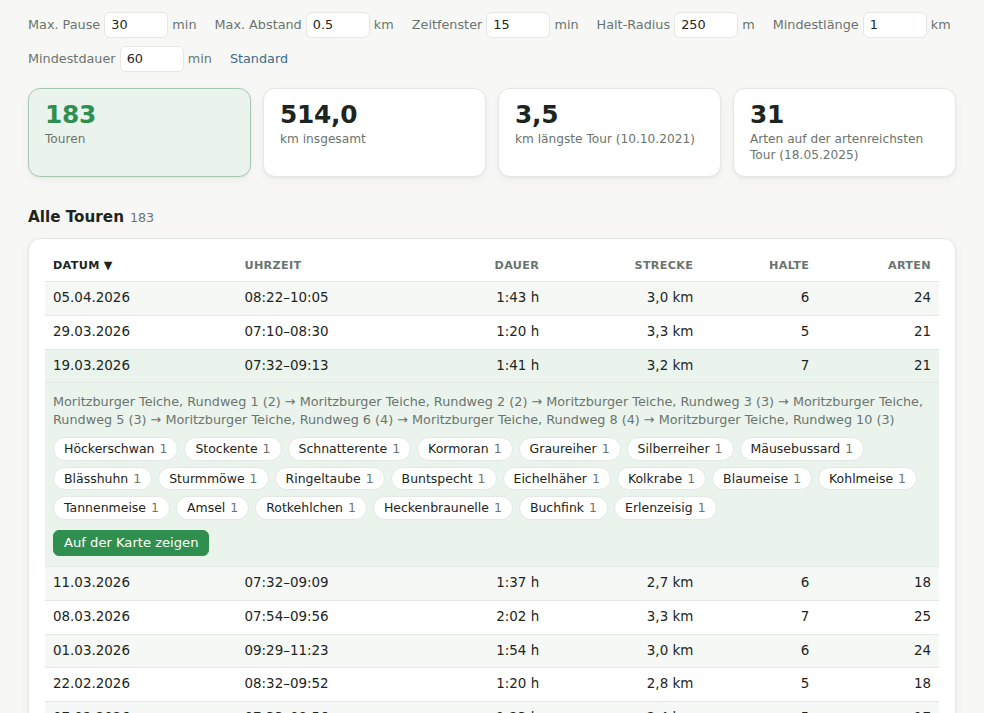
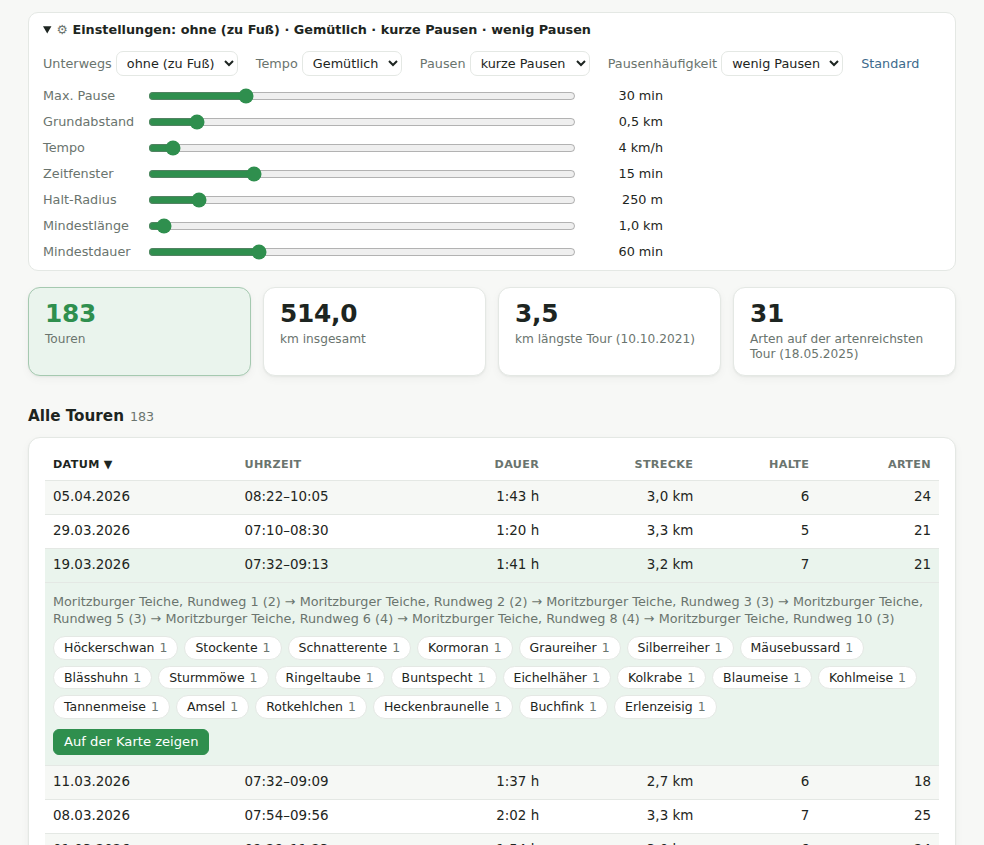
Feature: One tours settings menu with choices and sliders
The tour settings are now a single "Einstellungen" menu: four choices
(getting about: on foot or by bike; pace: Schnecke to Jaguar; short or
long pauses; few or frequent pauses) fill in all values, and each value
has a slider that redraws the tours live. The folded menu names the
choices and says "angepasst" once a slider moved.

The allowed distance between two records now grows with the time between
them: base distance plus what the set speed covers meanwhile.

diff --git a/src/tours.js b/src/tours.js
@@ -1,19 +1,40 @@
 /* ---------- tours ---------- */
 // Tours are reconstructed from the records themselves: on one day, records with a time that follow each
-// other within `gap` minutes and `step` km belong to the same walk or ride. Its stops are the mean
-// positions of `win`-minute time windows, merged where they lie within `stop` metres (see tourStops()). A chain with a single stop is a stay, not a tour, and tours shorter than
-// `minKm` or `minDur` minutes are left out (an hour is also the span a Beobachtungsliste covers a quadrant
-// in). The viewer can change them all in the tab; they are kept in localStorage.
-const TOUR_DEFAULTS = { gap: 30, step: 0.5, win: 15, stop: 250, minKm: 1, minDur: 60 };
-// [key, min, max, step of the input]
-/** @type {["gap"|"step"|"win"|"stop"|"minKm"|"minDur", number, number, number][]} */
-const TOUR_LIMITS = [["gap", 1, 240, 1], ["step", 0.1, 50, 0.1], ["win", 1, 120, 1], ["stop", 10, 2000, 10], ["minKm", 0, 50, 0.1], ["minDur", 0, 720, 5]];
+// other within `gap` minutes belong to the same walk or ride if they are no farther apart than `step` km
+// plus what `speed` km/h covers in the time between them. Its stops are the mean positions of `win`-minute
+// time windows, merged where they lie within `stop` metres (see tourStops()). A chain with a single stop is
+// a stay, not a tour, and tours shorter than `minKm` or `minDur` minutes are left out (an hour is also the
+// span a Beobachtungsliste covers a quadrant in).
+// The viewer describes the outing in four choices (TOUR_CHOICES: getting about, pace, length and number
+// of pauses), which fill in all numbers; each number can then be fine-tuned. Everything is kept in localStorage.
+/** @typedef {{mode: string, pace: string, pauseLen: string, pauseFreq: string, gap: number, step: number, speed: number, win: number, stop: number, minKm: number, minDur: number}} TourCfg */
+const TOUR_MODES = {
+  foot: { speed: 4, step: 0.5, stop: 250, win: 15, gap: 30, minKm: 1, minDur: 60 },
+  bike: { speed: 12, step: 1, stop: 400, win: 5, gap: 30, minKm: 5, minDur: 60 },
+};
+const TOUR_PACES = { snail: 0.5, easy: 1, brisk: 1.5, jaguar: 2.5 };  // factor on the mode's speed
+const TOUR_PAUSE_LEN = { short: 30, long: 60 };  // max. pause in minutes: long breaks, e.g. a picnic or a long watch without a record
+const TOUR_PAUSE_FREQ = { few: 1, often: 0.7 };  // factor on the speed: stopping often lowers the average
+/** @type {Object<string, Object<string, any>>} the choices of the settings menu, first one each is the default */
+const TOUR_CHOICES = { mode: TOUR_MODES, pace: TOUR_PACES, pauseLen: TOUR_PAUSE_LEN, pauseFreq: TOUR_PAUSE_FREQ };
+/** @param {{mode: string, pace: string, pauseLen: string, pauseFreq: string}} sel @returns {TourCfg} */
+function tourPreset({ mode, pace, pauseLen, pauseFreq }) {
+  const m = TOUR_MODES[mode];
+  return { mode, pace, pauseLen, pauseFreq, ...m, gap: TOUR_PAUSE_LEN[pauseLen],
+    speed: Math.round(m.speed * TOUR_PACES[pace] * TOUR_PAUSE_FREQ[pauseFreq] * 10) / 10 };
+}
+const TOUR_DEFAULTS = tourPreset({ mode: "foot", pace: "easy", pauseLen: "short", pauseFreq: "few" });
+// [key, min, max, step of its slider]
+/** @type {["gap"|"step"|"speed"|"win"|"stop"|"minKm"|"minDur", number, number, number][]} */
+const TOUR_LIMITS = [["gap", 5, 120, 5], ["step", 0, 5, 0.1], ["speed", 0, 100, 0.5], ["win", 1, 60, 1], ["stop", 50, 2000, 50], ["minKm", 0, 50, 0.5], ["minDur", 0, 240, 5]];
 const TOURS_SHOWN = 30;
-/** @returns {typeof TOUR_DEFAULTS} */
+/** @returns {TourCfg} */
 function loadTourCfg() {
   const cfg = { ...TOUR_DEFAULTS };
   try {
     const saved = JSON.parse(localStorage.getItem("lifelist-tour-settings") || "{}");
+    const sel = Object.fromEntries(Object.entries(TOUR_CHOICES).map(([id, opts]) => [id, saved[id] in opts ? saved[id] : TOUR_DEFAULTS[id]]));
+    Object.assign(cfg, tourPreset(/** @type {any} */ (sel)));
     for (const [k, min, max] of TOUR_LIMITS) if (typeof saved[k] === "number" && saved[k] >= min && saved[k] <= max) cfg[k] = saved[k];
   } catch (e) { /* no or broken settings: defaults */ }
   return cfg;
@@ -23,6 +44,8 @@ S.tourCfg = loadTourCfg();
 function saveTourCfg() {
   try { localStorage.setItem("lifelist-tour-settings", JSON.stringify(S.tourCfg)); } catch (e) { /* private mode may refuse */ }
 }
+// true when a number was changed by hand after making the choices
+const tourCfgTuned = () => { const p = tourPreset(S.tourCfg); return TOUR_LIMITS.some(([k]) => p[k] !== S.tourCfg[k]); };
 /**
  * @typedef {Object} TourStop
  * @property {number} lat - mean latitude of its records
@@ -98,8 +121,9 @@ function findTours(list) {
     byDay.get(o.d).push(o);
   }
   const tours = [];
-  const { gap, step, minKm, minDur } = S.tourCfg;
-  const close = (a, b) => b.tm - a.tm <= gap && distM(obsPos(a), obsPos(b)) <= step * 1000;
+  const { gap, step, speed, minKm, minDur } = S.tourCfg;
+  // the longer the time between two records, the farther the birder may have got meanwhile
+  const close = (a, b) => b.tm - a.tm <= gap && distM(obsPos(a), obsPos(b)) <= step * 1000 + speed * 1000 / 60 * (b.tm - a.tm);
   for (const [d, day] of byDay) {
     day.sort((a, b) => a.tm - b.tm);
     let chain = [day[0]];
@@ -126,12 +150,25 @@ function visibleTours() {
 }
 const fmtKm = km => km.toLocaleString(S.lang === "en" ? "en-GB" : "de-DE", { minimumFractionDigits: 1, maximumFractionDigits: 1 });
 const fmtDuration = min => `${Math.floor(min / 60)}:${pad(min % 60)} h`;
-// the four limits as inputs; a change re-renders the tab (see the "change" handler in app.js)
+// one "Einstellungen" menu: the way of getting about and the pace, and a slider for every number
+const TOUR_UNITS = { gap: "min", step: "km", speed: "km/h", win: "min", stop: "m", minKm: "km", minDur: "min" };
+const tourCfgValue = k => `${k === "step" || k === "minKm" ? fmtKm(S.tourCfg[k]) : fmtN(S.tourCfg[k])} ${TOUR_UNITS[k]}`;
+const tourCfgSummary = () => `${t("tourCfg")}: ${Object.keys(TOUR_CHOICES).map(id => t(`tour_${id}_${S.tourCfg[id]}`)).join(" · ")}${tourCfgTuned() ? ` (${t("tourCfgTuned")})` : ""}`;
 function tourSettingsHtml() {
-  const unit = { gap: "min", step: "km", win: "min", stop: "m", minKm: "km", minDur: "min" };
-  return `<div class="tour-cfg">${TOUR_LIMITS.map(([k, min, max, step]) =>
-    `<label>${t("tourCfg_" + k)} <input type="number" data-tour-cfg="${k}" min="${min}" max="${max}" step="${step}" value="${S.tourCfg[k]}"> ${unit[k]}</label>`).join("")}
-    <button class="lnk" type="button" data-tour-reset>${t("tourCfgReset")}</button></div>`;
+  const pick = (id, keys) => `<select data-tour-preset="${id}" aria-label="${esc(t("tourCfg_" + id))}">${keys.map(k =>
+    `<option value="${k}"${k === S.tourCfg[id] ? " selected" : ""}>${t(`tour_${id}_${k}`)}</option>`).join("")}</select>`;
+  return `<details class="tour-settings"${S.tourSetOpen ? " open" : ""}><summary id="tour-cfg-sum">${esc(tourCfgSummary())}</summary>
+    <div class="tour-presets">${Object.entries(TOUR_CHOICES).map(([id, opts]) => `<label>${t("tourCfg_" + id)} ${pick(id, Object.keys(opts))}</label>`).join("")}
+      <button class="lnk" type="button" data-tour-reset>${t("tourCfgReset")}</button></div>
+    <div class="tour-sliders">${TOUR_LIMITS.map(([k, min, max, step]) => `<label for="tour-cfg-${k}">${t("tourCfg_" + k)}</label>
+      <input type="range" id="tour-cfg-${k}" data-tour-cfg="${k}" min="${min}" max="${max}" step="${step}" value="${S.tourCfg[k]}">
+      <output id="tour-cfg-${k}-v" for="tour-cfg-${k}">${tourCfgValue(k)}</output>`).join("")}</div></details>`;
+}
+// after a preset or reset: move every slider and its value to the new settings
+function syncTourSettings() {
+  for (const [k] of TOUR_LIMITS) { $(`tour-cfg-${k}`).value = S.tourCfg[k]; $(`tour-cfg-${k}-v`).textContent = tourCfgValue(k); }
+  for (const id of Object.keys(TOUR_CHOICES)) $$(`[data-tour-preset="${id}"]`).value = S.tourCfg[id];
+  $("tour-cfg-sum").textContent = tourCfgSummary();
 }
 // sortable columns, like the life list: a click sorts, a second click turns the order round
 const TOUR_SORT = {
@@ -154,11 +191,14 @@ function tourTh(k, label, cls = "") {
   const s = S.tourSort;
   return `<th class="sortable ${cls}${s.k === k ? " sorted" : ""}" data-tour-sort="${k}">${label}${s.k === k ? (s.d > 0 ? " ▲" : " ▼") : ""}</th>`;
 }
+// the whole tab: help, settings menu and the results; the sliders only redraw the results (renderTourOut)
 function renderTours() {
+  $("tab-tours").innerHTML = infoText(t("toursHelp")) + tourSettingsHtml() + `<div id="tour-out"></div>`;
+  renderTourOut();
+}
+function renderTourOut() {
   const tours = visibleTours();
-  const { gap, step, win, stop, minKm, minDur } = S.tourCfg;
-  const help = infoText(t("toursHelp", gap, fmtKm(step), stop, fmtKm(minKm), minDur, win)) + tourSettingsHtml();
-  if (!tours.length) { $("tab-tours").innerHTML = help + `<p class="empty">${t("toursNone")}</p>`; updateToc(); return; }
+  if (!tours.length) { $("tour-out").innerHTML = `<p class="empty">${t("toursNone")}</p>`; updateToc(); return; }
   const stats = speciesStats(baseObs());
   const isLifer = tr => s => tr.obs.includes(stats.get(s)?.first);
   const km = tours.reduce((a, tr) => a + tr.km, 0);
@@ -179,8 +219,7 @@ function renderTours() {
     }
     return h;
   }).join("");
-  $("tab-tours").innerHTML = `
-    ${help}
+  $("tour-out").innerHTML = `
     <div class="kpis k4">
       <div class="kpi main"><b>${fmtN(tours.length)}</b><span>${t("toursKCount")}</span></div>
       <div class="kpi"><b>${fmtKm(km)}</b><span>${t("toursKKm")}</span></div>

diff --git a/src/i18n.js b/src/i18n.js
@@ -7,11 +7,16 @@ de: {
   pdf: "PDF erstellen", printed: "Stand: {0}", infoToggle: "Erläuterung",
   subtitle: "Ornitho.de, Exportdatei {0}, {1} Beobachtungen",
   tabOverview: "Übersicht", tabList: "Lebensliste", tabRegions: "Regionen", tabTargets: "Ziele", tabActivity: "Tagesaktivität", tabTours: "Touren", tabMap: "Karte",
-  toursHelp: "Touren werden aus deinen Meldungen rekonstruiert: Meldungen mit Uhrzeit, die am selben Tag höchstens {0} Minuten und {1} km auseinanderliegen, gehören zu einer Tour, zum Beispiel einem Spaziergang oder einer Radtour. Weil die Koordinaten einer Meldung meist zeigen, wo der Vogel war, und nicht, wo du standest, schätzt die Seite deinen Weg: Die Meldungen werden in Zeitfenster von {5} Minuten geteilt, jedes liegt im Mittelpunkt seiner Meldungen, und benachbarte Fenster, die höchstens {2} m auseinanderliegen, bilden einen Halt. Eine Tour hat mindestens zwei Halte; kürzere als {3} km oder {4} Minuten werden nicht gezeigt. Alle Werte lassen sich unten ändern; dein Browser merkt sie sich. Die Strecke ist die Luftlinie von Halt zu Halt. Wo der Export den GPS-Standort deines Handys beim Melden hat, zählt nur dieser; sonst genau gesetzte Punkte, sonst der ornitho-Ort.",
+  toursHelp: "Touren werden aus deinen Meldungen mit Uhrzeit rekonstruiert. Zwei Meldungen am selben Tag gehören zur selben Tour, wenn höchstens die Max. Pause zwischen ihnen liegt und sie nicht weiter auseinander sind als der Grundabstand plus die Strecke, die du im eingestellten Tempo in der Zeit dazwischen schaffst. Weil die Koordinaten einer Meldung oft zeigen, wo der Vogel war, schätzt die Seite deinen Weg: Die Meldungen werden in Zeitfenster geteilt, jedes liegt im Mittelpunkt seiner Meldungen (mit GPS-Standort des Handys nur dieser), und benachbarte Fenster innerhalb des Halt-Radius bilden einen Halt. Touren unter Mindestlänge oder Mindestdauer werden nicht gezeigt. Unter „Einstellungen“ wählst du, wie und wie schnell du unterwegs warst und wie lange und wie oft du Pause machst, und kannst jeden Wert mit einem Schieberegler anpassen; dein Browser merkt sich alles.",
   toursNone: "Keine Touren gefunden.", toursTitle: "Alle Touren", toursKCount: "Touren", toursKKm: "km insgesamt",
   toursKLongest: "km längste Tour ({0})", toursKRichest: "Arten auf der artenreichsten Tour ({0})",
   colDate: "Datum", colTime: "Uhrzeit", colDuration: "Dauer", colDistance: "Strecke", colPlaces: "Halte",
-  tourCfg_gap: "Max. Pause", tourCfg_step: "Max. Abstand", tourCfg_win: "Zeitfenster", tourCfg_stop: "Halt-Radius", tourCfg_minKm: "Mindestlänge", tourCfg_minDur: "Mindestdauer", tourCfgReset: "Standard",
+  tourCfg: "Einstellungen", tourCfg_mode: "Unterwegs", tourCfg_pace: "Tempo", tourCfgTuned: "angepasst",
+  tour_mode_foot: "ohne (zu Fuß)", tour_mode_bike: "Fahrrad",
+  tour_pace_snail: "Schnecke", tour_pace_easy: "Gemütlich", tour_pace_brisk: "Zügig", tour_pace_jaguar: "Jaguar",
+  tourCfg_pauseLen: "Pausen", tour_pauseLen_short: "kurze Pausen", tour_pauseLen_long: "lange Pausen",
+  tourCfg_pauseFreq: "Pausenhäufigkeit", tour_pauseFreq_few: "wenig Pausen", tour_pauseFreq_often: "oft Pausen",
+  tourCfg_speed: "Tempo", tourCfg_gap: "Max. Pause", tourCfg_step: "Grundabstand", tourCfg_win: "Zeitfenster", tourCfg_stop: "Halt-Radius", tourCfg_minKm: "Mindestlänge", tourCfg_minDur: "Mindestdauer", tourCfgReset: "Standard",
   tourShowMap: "Auf der Karte zeigen", tourOnMap: "Tour am {0}: {1} Halte, {2} km.", tourHide: "Tour ausblenden",
   actHelp: "Zu welcher Uhrzeit du Beobachtungen meldest. Berücksichtigt sind {0} von {1} Meldungen, denn manche Meldungen (vor allem über die Weboberfläche) haben keine Uhrzeit.",
   actMObs: "Beobachtungen", actMSpecies: "Arten", actMDays: "Beobachtungstage",
@@ -121,11 +126,16 @@ en: {
   pdf: "Create PDF", printed: "As of: {0}", infoToggle: "About this",
   subtitle: "Ornitho.de, export file {0}, {1} observations",
   tabOverview: "Overview", tabList: "Life List", tabRegions: "Regions", tabTargets: "Targets", tabActivity: "Daily Activity", tabTours: "Tours", tabMap: "Map",
-  toursHelp: "Tours are reconstructed from your records: records with a time on the same day that are at most {0} minutes and {1} km apart belong to one tour, such as a walk or a bike ride. As a record's coordinates mostly show where the bird was rather than where you stood, the page estimates your way: the records are cut into time windows of {5} minutes, each placed at the middle of its records, and neighbouring windows at most {2} m apart make one stop. A tour has at least two stops; tours shorter than {3} km or {4} minutes are not shown. You can change all values below; your browser remembers them. The distance is the straight line from stop to stop. Where the export has your phone's GPS position when reporting, only that counts; otherwise points set by hand, otherwise the ornitho.de place.",
+  toursHelp: "Tours are reconstructed from your records with a time. Two records on the same day belong to one tour if at most the max. pause lies between them and they are no farther apart than the base distance plus what you cover at the set speed in the time between them. As a record's coordinates often show where the bird was, the page estimates your way: the records are cut into time windows, each placed at the middle of its records (only your phone's GPS position where it has one), and neighbouring windows within the stop radius make one stop. Tours below the minimum length or duration are not shown. Under \"Settings\" you choose how and how fast you got about and how long and how often you paused, and can adjust each value with a slider; your browser remembers everything.",
   toursNone: "No tours found.", toursTitle: "All tours", toursKCount: "Tours", toursKKm: "km in total",
   toursKLongest: "km longest tour ({0})", toursKRichest: "species on the richest tour ({0})",
   colDate: "Date", colTime: "Time", colDuration: "Duration", colDistance: "Distance", colPlaces: "Stops",
-  tourCfg_gap: "Max. pause", tourCfg_step: "Max. distance", tourCfg_win: "Time window", tourCfg_stop: "Stop radius", tourCfg_minKm: "Minimum length", tourCfg_minDur: "Minimum duration", tourCfgReset: "Defaults",
+  tourCfg: "Settings", tourCfg_mode: "Getting about", tourCfg_pace: "Pace", tourCfgTuned: "adjusted",
+  tour_mode_foot: "none (on foot)", tour_mode_bike: "Bicycle",
+  tour_pace_snail: "Snail", tour_pace_easy: "Easy", tour_pace_brisk: "Brisk", tour_pace_jaguar: "Jaguar",
+  tourCfg_pauseLen: "Pauses", tour_pauseLen_short: "short pauses", tour_pauseLen_long: "long pauses",
+  tourCfg_pauseFreq: "Pause frequency", tour_pauseFreq_few: "few pauses", tour_pauseFreq_often: "frequent pauses",
+  tourCfg_speed: "Speed", tourCfg_gap: "Max. pause", tourCfg_step: "Base distance", tourCfg_win: "Time window", tourCfg_stop: "Stop radius", tourCfg_minKm: "Minimum length", tourCfg_minDur: "Minimum duration", tourCfgReset: "Defaults",
   tourShowMap: "Show on the map", tourOnMap: "Tour on {0}: {1} stops, {2} km.", tourHide: "Hide tour",
   actHelp: "Time of day you log sightings, covering {0} of {1} records. Some entries, especially via the web, carry no time.",
   actMObs: "Observations", actMSpecies: "Species", actMDays: "Observation days",

diff --git a/src/app.js b/src/app.js
@@ -228,15 +228,35 @@ function init() {
     renderActive();
   });
   $("m-metric").addEventListener("change", e => { S.metric = e.target.value; renderMap(); });
-  $("tab-tours").addEventListener("change", e => {
+  $("tab-tours").addEventListener("toggle", e => {
+    if (e.target.matches?.("details.tour-settings")) S.tourSetOpen = e.target.open;
+  }, true);
+  // sliders take effect while they move; the results redraw at most once per frame
+  let tourRAF = 0;
+  const redrawTours = () => {
+    S.tourOpen = new Set(); S.tourRoute = null;
+    cancelAnimationFrame(tourRAF);
+    tourRAF = requestAnimationFrame(renderTourOut);
+  };
+  $("tab-tours").addEventListener("input", e => {
     const k = e.target.dataset?.tourCfg;
     if (!k) return;
-    const [, min, max] = TOUR_LIMITS.find(l => l[0] === k);
-    const v = parseFloat(String(e.target.value).replace(",", "."));
-    if (Number.isFinite(v)) { S.tourCfg[k] = Math.min(max, Math.max(min, v)); saveTourCfg(); }
-    S.tourOpen = new Set(); S.tourRoute = null;
-    renderTours();
-    $$(`[data-tour-cfg="${k}"]`)?.focus();
+    S.tourCfg[k] = +e.target.value;
+    saveTourCfg();
+    $(`tour-cfg-${k}-v`).textContent = tourCfgValue(k);
+    $("tour-cfg-sum").textContent = tourCfgSummary();
+    redrawTours();
+  });
+  $("tab-tours").addEventListener("change", e => {
+    const preset = e.target.dataset?.tourPreset;
+    if (!preset) return;
+    // a new choice fills in all numbers again
+    const sel = { mode: S.tourCfg.mode, pace: S.tourCfg.pace, pauseLen: S.tourCfg.pauseLen, pauseFreq: S.tourCfg.pauseFreq };
+    sel[/** @type {"mode"|"pace"|"pauseLen"|"pauseFreq"} */ (preset)] = e.target.value;
+    S.tourCfg = tourPreset(sel);
+    saveTourCfg();
+    syncTourSettings();
+    redrawTours();
   });
   $("tab-tours").addEventListener("click", e => {
     const th = e.target.closest("th[data-tour-sort]");
@@ -244,16 +264,16 @@ function init() {
       const k = th.dataset.tourSort;
       // a new column starts with the biggest (or, for the time of day, earliest) first
       S.tourSort = S.tourSort.k === k ? { k, d: /** @type {1|-1} */ (-S.tourSort.d) } : { k, d: k === "time" ? 1 : -1 };
-      renderTours(); return;
+      renderTourOut(); return;
     }
-    if (e.target.closest("[data-tour-reset]")) { S.tourCfg = { ...TOUR_DEFAULTS }; saveTourCfg(); renderTours(); return; }
+    if (e.target.closest("[data-tour-reset]")) { S.tourCfg = { ...TOUR_DEFAULTS }; saveTourCfg(); syncTourSettings(); redrawTours(); return; }
     const route = e.target.closest("[data-route]");
     if (route) { S.tourRoute = route.dataset.route; setTab("map"); return; }
-    if (e.target.closest("[data-tours-all]")) { S.tourAll = !S.tourAll; renderTours(); return; }
+    if (e.target.closest("[data-tours-all]")) { S.tourAll = !S.tourAll; renderTourOut(); return; }
     const sp = e.target.closest("[data-sp]");
     if (sp) { openSpecies(+sp.dataset.sp); return; }
     const tr = e.target.closest("tr.row[data-tour]");
-    if (tr) { const k = tr.dataset.tour; S.tourOpen.has(k) ? S.tourOpen.delete(k) : S.tourOpen.add(k); renderTours(); }
+    if (tr) { const k = tr.dataset.tour; S.tourOpen.has(k) ? S.tourOpen.delete(k) : S.tourOpen.add(k); renderTourOut(); }
   });
   $("tab-map").addEventListener("click", e => {
     if (e.target.closest("[data-route-off]")) { S.tourRoute = null; renderMap(); return; }

diff --git a/src/data.js b/src/data.js
@@ -104,7 +104,8 @@ if (initialTheme !== "system") document.documentElement.setAttribute("data-theme
  * @property {string|null} actCell - open cell of the activity tab's hour tables: "m:M-H" (month 0-11, hour) or "w:W-H" (weekday 0-6 from Monday, hour)
  * @property {string} regMonthLvl - level of the region x month table's rows: "s"|"c"|"m"|"p"
  * @property {string|null} regMonthCell - "M:regionKey" (month 0-11, region key at the table's level) of its open cell
- * @property {{gap: number, step: number, win: number, stop: number, minKm: number, minDur: number}} tourCfg - tour limits (see TOUR_DEFAULTS), kept in localStorage
+ * @property {any} tourCfg - tour settings (a TourCfg, see tours.js), kept in localStorage
+ * @property {boolean} tourSetOpen - the tours' settings menu is unfolded
  * @property {{k: string, d: 1|-1}} tourSort - tours table sort (see TOUR_SORT)
  * @property {Set<string>} tourOpen - keys of tours with an open detail row
  * @property {boolean} tourAll - show every tour instead of the newest ones
@@ -114,7 +115,7 @@ if (initialTheme !== "system") document.documentElement.setAttribute("data-theme
 const S = { tab: "overview", region: "all", year: Math.min(TODAY_Y, MAX_Y), month: TODAY_M, timeAll: true, lang: initialLang, theme: initialTheme,
   escaped: false, collective: false, atlasF: "all", actMetric: "obs", redact: !!RAW.meta.redacted, metric: "life", q: "", sort: "nr", dir: -1, open: new Set(),
   regSort: {}, regAll: {}, targetSrc: "all", customTargets: loadCustomTargets(), wishSort: { k: "season", d: 1 },
-  wishOpen: null, wishQ: "", calDay: null, heatCell: null, actCell: null, regMonthLvl: "c", regMonthCell: null, tourCfg: null, tourSort: { k: "date", d: -1 }, tourOpen: new Set(), tourAll: false, tourRoute: null, focusSp: null };
+  wishOpen: null, wishQ: "", calDay: null, heatCell: null, actCell: null, regMonthLvl: "c", regMonthCell: null, tourCfg: null, tourSetOpen: false, tourSort: { k: "date", d: -1 }, tourOpen: new Set(), tourAll: false, tourRoute: null, focusSp: null };
 T = STR[S.lang];
 
 /* ---------- helpers ---------- */

diff --git a/template.html b/template.html
@@ -87,8 +87,14 @@ details.info p.prose{margin:5px 0 0}
 .kpis{display:grid;grid-template-columns:repeat(auto-fit,minmax(150px,1fr));gap:12px}
 .kpis.k8,.kpis.k4{grid-template-columns:repeat(4,1fr)}
 @media (max-width:700px){.kpis.k8,.kpis.k4{grid-template-columns:repeat(2,1fr)}}
-.tour-cfg{display:flex;flex-wrap:wrap;align-items:center;gap:8px 18px;margin:4px 0 16px;font-size:.8rem;color:var(--muted)}
-.tour-cfg input{font:inherit;width:5em;padding:3px 6px;border:1px solid var(--line);border-radius:6px;background:var(--card);color:var(--text)}
+details.tour-settings{margin:4px 0 16px;background:var(--card);border:1px solid var(--line);border-radius:10px;padding:8px 14px;font-size:.8rem;color:var(--muted)}
+details.tour-settings summary{cursor:pointer;color:var(--text);font-weight:600}
+details.tour-settings summary::before{content:"⚙ ";color:var(--muted)}
+.tour-presets{display:flex;flex-wrap:wrap;align-items:center;gap:8px 18px;margin:12px 0 10px}
+.tour-presets select{font:inherit;font-size:.8rem;padding:3px 6px}
+.tour-sliders{display:grid;grid-template-columns:max-content 1fr 6em;gap:6px 12px;align-items:center;max-width:620px}
+.tour-sliders input[type=range]{width:100%;accent-color:var(--accent)}
+.tour-sliders output{font-variant-numeric:tabular-nums;color:var(--text);text-align:right}
 .tour-path{font-size:.8rem;color:var(--muted);margin:2px 0 8px}
 .route-stop div{background:var(--accent);color:#fff;border:2px solid #fff;border-radius:50%;width:100%;height:100%;display:flex;align-items:center;justify-content:center;
   font:700 11px/1 system-ui,sans-serif;box-shadow:0 1px 4px rgba(0,0,0,.35)}
@@ -308,7 +314,7 @@ footer.meta-footer .btn{flex:0 0 auto;padding:3px 10px}
   .toc{display:none!important}
   tr.grp .grp-t::before{display:none}
   .wish-io{display:none!important}
-  .cal-panel,.tour-cfg{display:none!important}
+  .cal-panel,details.tour-settings{display:none!important}
   .heat td.sel,.cal-day.cal-sel{outline:none!important}
   .printonly{display:block}
   section.tab{display:block!important;padding-top:0}

diff --git a/tests/test_page.py b/tests/test_page.py
@@ -287,7 +287,7 @@ class PageTest(unittest.TestCase):
     def test_tours_are_rebuilt_from_close_records(self):
         page = self.open(redact="tours", hash="#tours")
         # the fixture's tours are short: test the rules with small limits (the defaults are for real walks)
-        page.evaluate("S.tourCfg = { gap: 10, step: 1, win: 3, stop: 150, minKm: 0.5, minDur: 0 }; renderTours()")
+        page.evaluate("S.tourCfg = { mode: 'foot', pace: 'easy', pauseLen: 'short', pauseFreq: 'few', gap: 10, step: 1, speed: 0, win: 3, stop: 150, minKm: 0.5, minDur: 0 }; renderTours()")
         tours = page.evaluate("findTours(baseObs()).map(t => ({ d: t.d, stops: t.stops.map(s => [s.name, s.obs.length, s.lat, s.lon]), km: t.km }))")
         # the zigzag day: time windows follow the walk instead of hopping from bird to bird
         km = lambda win: page.evaluate(f"(S.tourCfg.win = {win}, findTours(baseObs()).find(t => t.d === '2024-05-03').km)")
@@ -321,28 +321,45 @@ class PageTest(unittest.TestCase):
         page.click("[data-route]")
         page.wait_for_function("S.tab === 'map'")
         self.assertEqual(page.locator(".route-stop").count(), 2)
-        # the limits can be changed: a longer pause and distance join C and D into the A-B tour
         page.click('#tabs button[data-tab="tours"]')
-        page.fill('[data-tour-cfg="gap"]', "30")
-        page.press('[data-tour-cfg="gap"]', "Enter")
-        page.fill('[data-tour-cfg="step"]', "5")
-        page.press('[data-tour-cfg="step"]', "Enter")
-        self.assertEqual(page.evaluate("findTours(baseObs()).filter(t => t.d < '2024-05-03').map(t => t.stops.length)"), [2, 4])
+        short = "findTours(baseObs()).filter(t => t.d < '2024-05-03')"
+
+        def slide(k, v):
+            page.evaluate("([k, v]) => { const e = document.querySelector(`[data-tour-cfg=\"${k}\"]`); e.value = v; e.dispatchEvent(new Event('input', { bubbles: true })); }", [k, v])
+            page.wait_for_timeout(50)
+        # the allowed distance grows with the time between records: at 60 km/h, C (3 km, 4 min after B) joins
+        slide("speed", 60)
+        self.assertEqual(page.evaluate(f"{short}.map(t => t.stops.length)"), [2, 3])
+        slide("speed", 0)
+        # a longer pause and base distance join C and D into the A-B tour
+        slide("gap", 30)
+        slide("step", 5)
+        self.assertEqual(page.evaluate(f"{short}.map(t => t.stops.length)"), [2, 4])
+        self.assertIn("angepasst", page.inner_text("#tour-cfg-sum"))
         # a minimum length drops the short ones, and the settings survive a reload
-        page.fill('[data-tour-cfg="minKm"]', "1")
-        page.press('[data-tour-cfg="minKm"]', "Enter")
-        self.assertEqual(page.evaluate("findTours(baseObs()).filter(t => t.d < '2024-05-03').length"), 1)
+        slide("minKm", 1)
+        self.assertEqual(page.evaluate(f"{short}.length"), 1)
         # and a minimum duration: the joined tour runs 07:00-07:29
-        page.fill('[data-tour-cfg="minDur"]', "30")
-        page.press('[data-tour-cfg="minDur"]', "Enter")
-        self.assertEqual(page.evaluate("findTours(baseObs()).filter(t => t.d < '2024-05-03').length"), 0)
-        page.fill('[data-tour-cfg="minDur"]', "0")
-        page.press('[data-tour-cfg="minDur"]', "Enter")
+        slide("minDur", 30)
+        self.assertEqual(page.evaluate(f"{short}.length"), 0)
+        slide("minDur", 0)
         page.reload()
         self.assertEqual(page.evaluate("[S.tourCfg.gap, S.tourCfg.step, S.tourCfg.minKm]"), [30, 5, 1])
+        # the menu: a preset fills in all values, and "Standard" goes back to on foot, easy
         page.click('#tabs button[data-tab="tours"]')
+        page.click("#tour-cfg-sum")
+        page.select_option('[data-tour-preset="mode"]', "bike")
+        page.select_option('[data-tour-preset="pace"]', "jaguar")
+        self.assertEqual(page.evaluate("[S.tourCfg.speed, S.tourCfg.stop]"), [30, 400])
+        self.assertEqual(page.input_value('[data-tour-cfg="speed"]'), "30")
+        self.assertIn("Fahrrad · Jaguar", page.inner_text("#tour-cfg-sum"))
+        # long and frequent pauses: a longer max. pause, a lower average speed
+        page.select_option('[data-tour-preset="pauseLen"]', "long")
+        page.select_option('[data-tour-preset="pauseFreq"]', "often")
+        self.assertEqual(page.evaluate("[S.tourCfg.gap, S.tourCfg.speed]"), [60, 21])
         page.click("[data-tour-reset]")
-        self.assertEqual(page.evaluate("S.tourCfg"), {"gap": 30, "step": 0.5, "win": 15, "stop": 250, "minKm": 1, "minDur": 60})
+        self.assertEqual(page.evaluate("S.tourCfg"), {"mode": "foot", "pace": "easy", "pauseLen": "short", "pauseFreq": "few", "speed": 4, "step": 0.5, "stop": 250,
+                                                      "win": 15, "gap": 30, "minKm": 1, "minDur": 60})
         # no tours without place data
         page.click("#o-sum")
         page.check("#o-redact")

diff --git a/tools/make_screenshots.py b/tools/make_screenshots.py
@@ -115,9 +115,10 @@ def main():
 
             # Touren: tours rebuilt from the records, one opened
             page = open_page(hash="#tours")
+            page.click("#tour-cfg-sum")  # the settings menu, unfolded
             page.locator("#tab-tours tr.row").nth(2).click()
             page.wait_for_timeout(200)
-            shot(page, "tours.png", section(page, "#tab-tours .tour-cfg", "#tab-tours tbody tr:nth-child(8)"))
+            shot(page, "tours.png", section(page, "#tab-tours details.tour-settings", "#tab-tours tbody tr:nth-child(6)"))
 
             # dark theme and phone
             page = open_page(theme="dark", hash="#overview")

diff --git a/README.md b/README.md
@@ -42,7 +42,7 @@ Die Bilder zeigen eine Lebensliste aus erfundenen Beispieldaten.
 
 ![Karte mit den Beobachtungsorten in ganz Deutschland](docs/screenshots/map.png)
 
-**Touren**, zusammengesetzt aus Meldungen, die zeitlich und räumlich nah beieinanderliegen. Wie nah (Standard: 30 Minuten Pause, 500 m Abstand, Halte im Umkreis von 250 m, mindestens 1 km und 1 Stunde), stellst du im Tab selbst ein:
+**Touren**, zusammengesetzt aus Meldungen, die zeitlich und räumlich nah beieinanderliegen. Unter „Einstellungen“ wählst du, ob du zu Fuß oder mit dem Rad unterwegs warst und wie schnell (Schnecke bis Jaguar), und kannst jeden Wert mit einem Schieberegler anpassen:
 
 ![Liste der Touren mit Kennzahlen und einer geöffneten Tour](docs/screenshots/tours.png)
 
